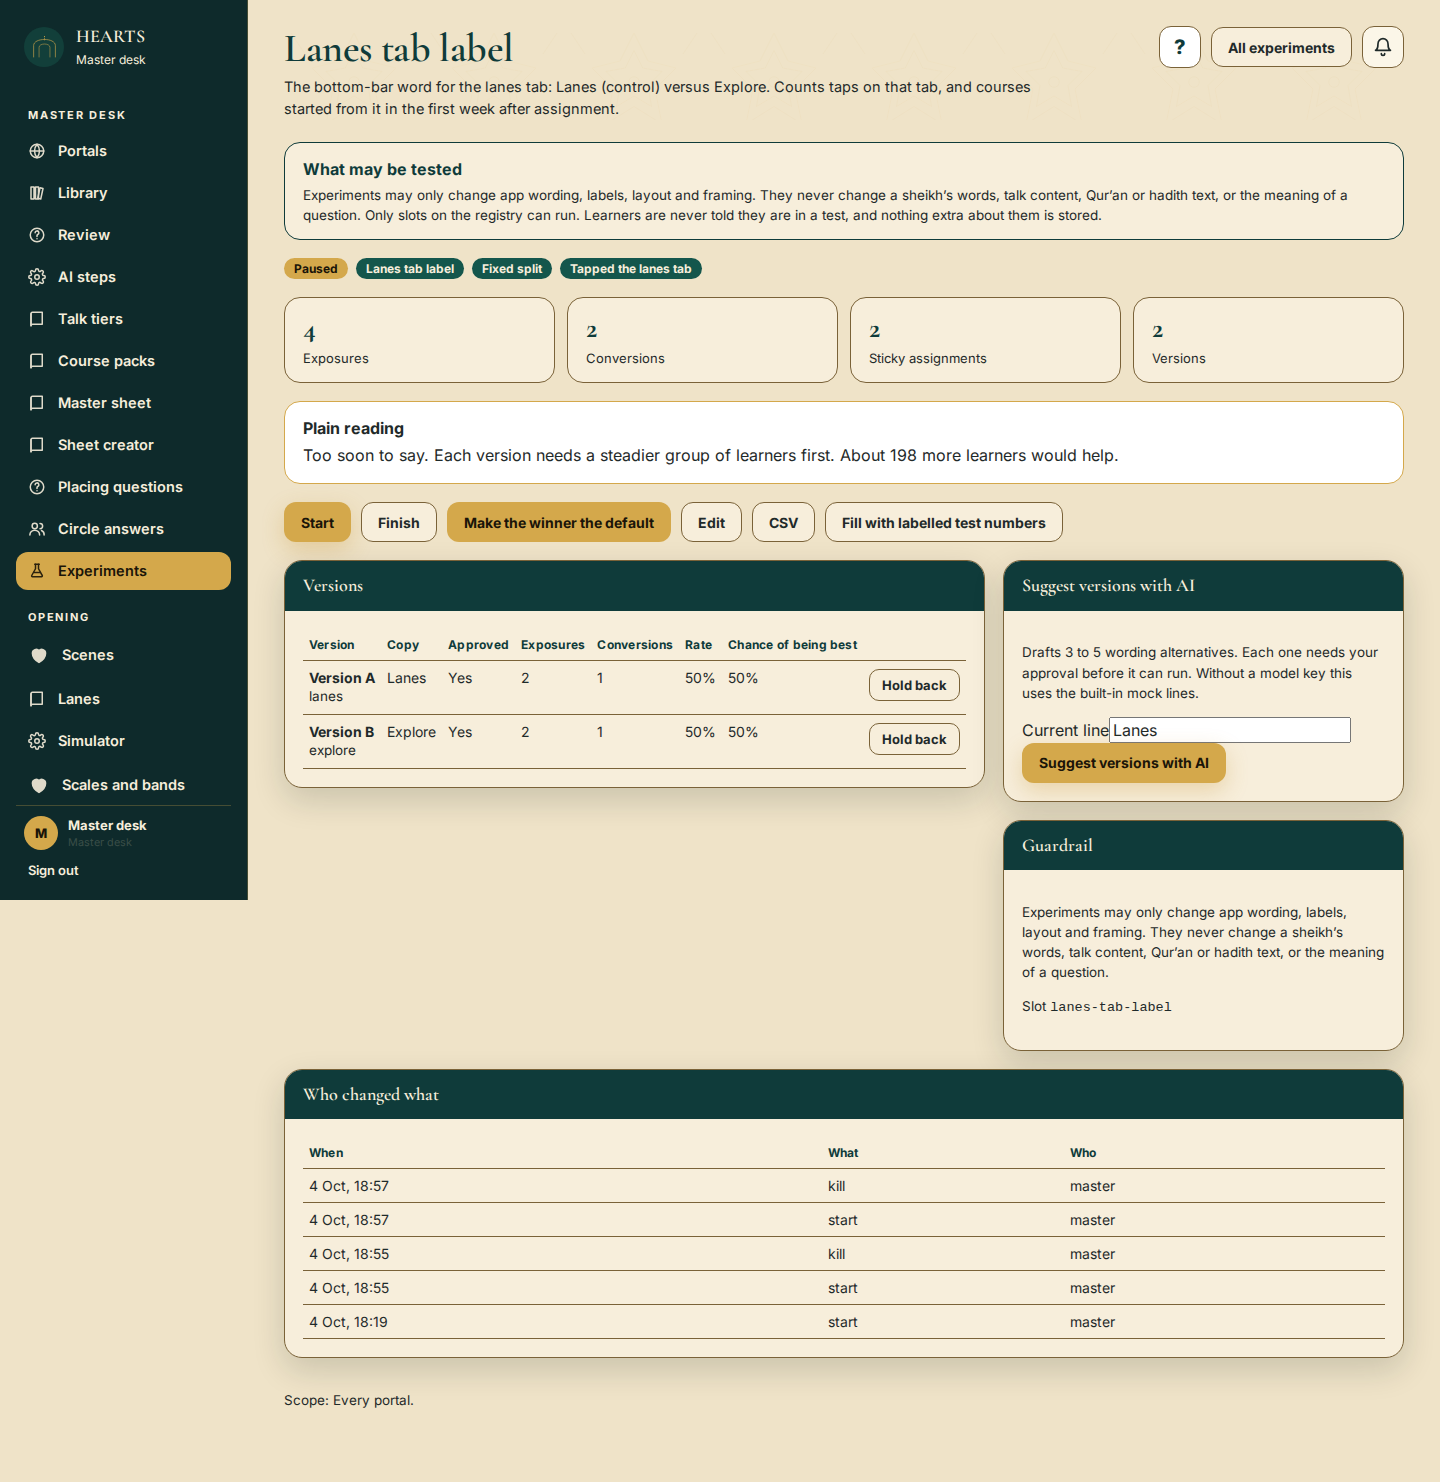
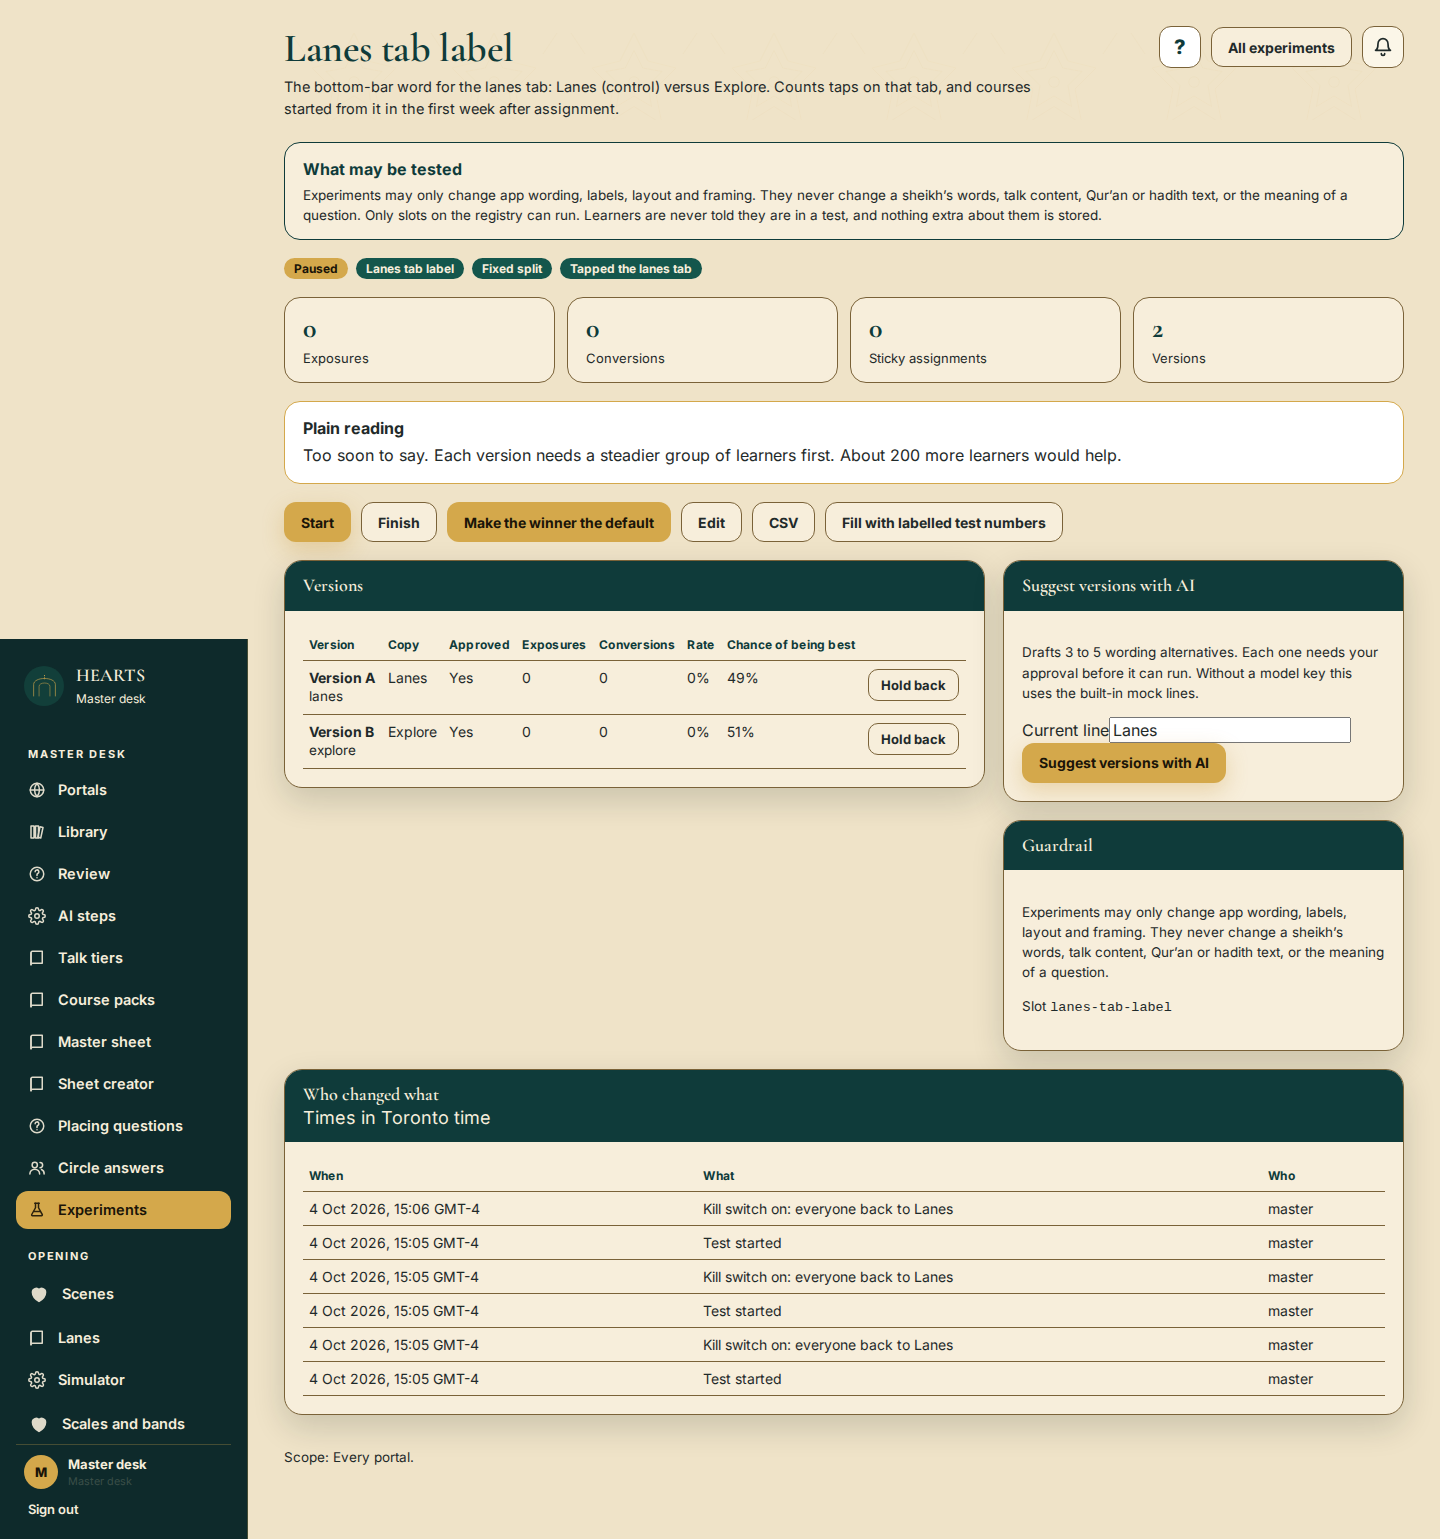
Update experiment form and history screenshots
Stacked New experiment fields, Toronto-local Who changed what times,
and kill/start lines written in words.

diff --git a/README.md b/README.md
@@ -11,4 +11,4 @@ Recorded on a local HEARTS dev server. Nothing here was run against a live deplo
 
 ## Screenshots
 
-See `screenshots/`. `experiments-results.png` and `lanes-tab-experiment-draft.png` now show the Versions Copy column as plain words (no raw JSON). `talk-content-refused.png` keeps the typed values on the form. `lanes-kill-history.png` shows a kill line in Who changed what.
+See `screenshots/`. `experiments-new-form.png` shows each New experiment label stacked above its full-width field, with hints under the slot key and secondary metrics. `lanes-kill-history.png` shows Who changed what in Toronto time (UK date plus a zone label) with the lines “Test started” and “Kill switch on: everyone back to Lanes”. `talk-content-refused.png` is the same stacked form after a refused talk-content slot, values kept. `experiments-results.png` and `lanes-tab-experiment-draft.png` show the Versions Copy column as plain words (no raw JSON).
